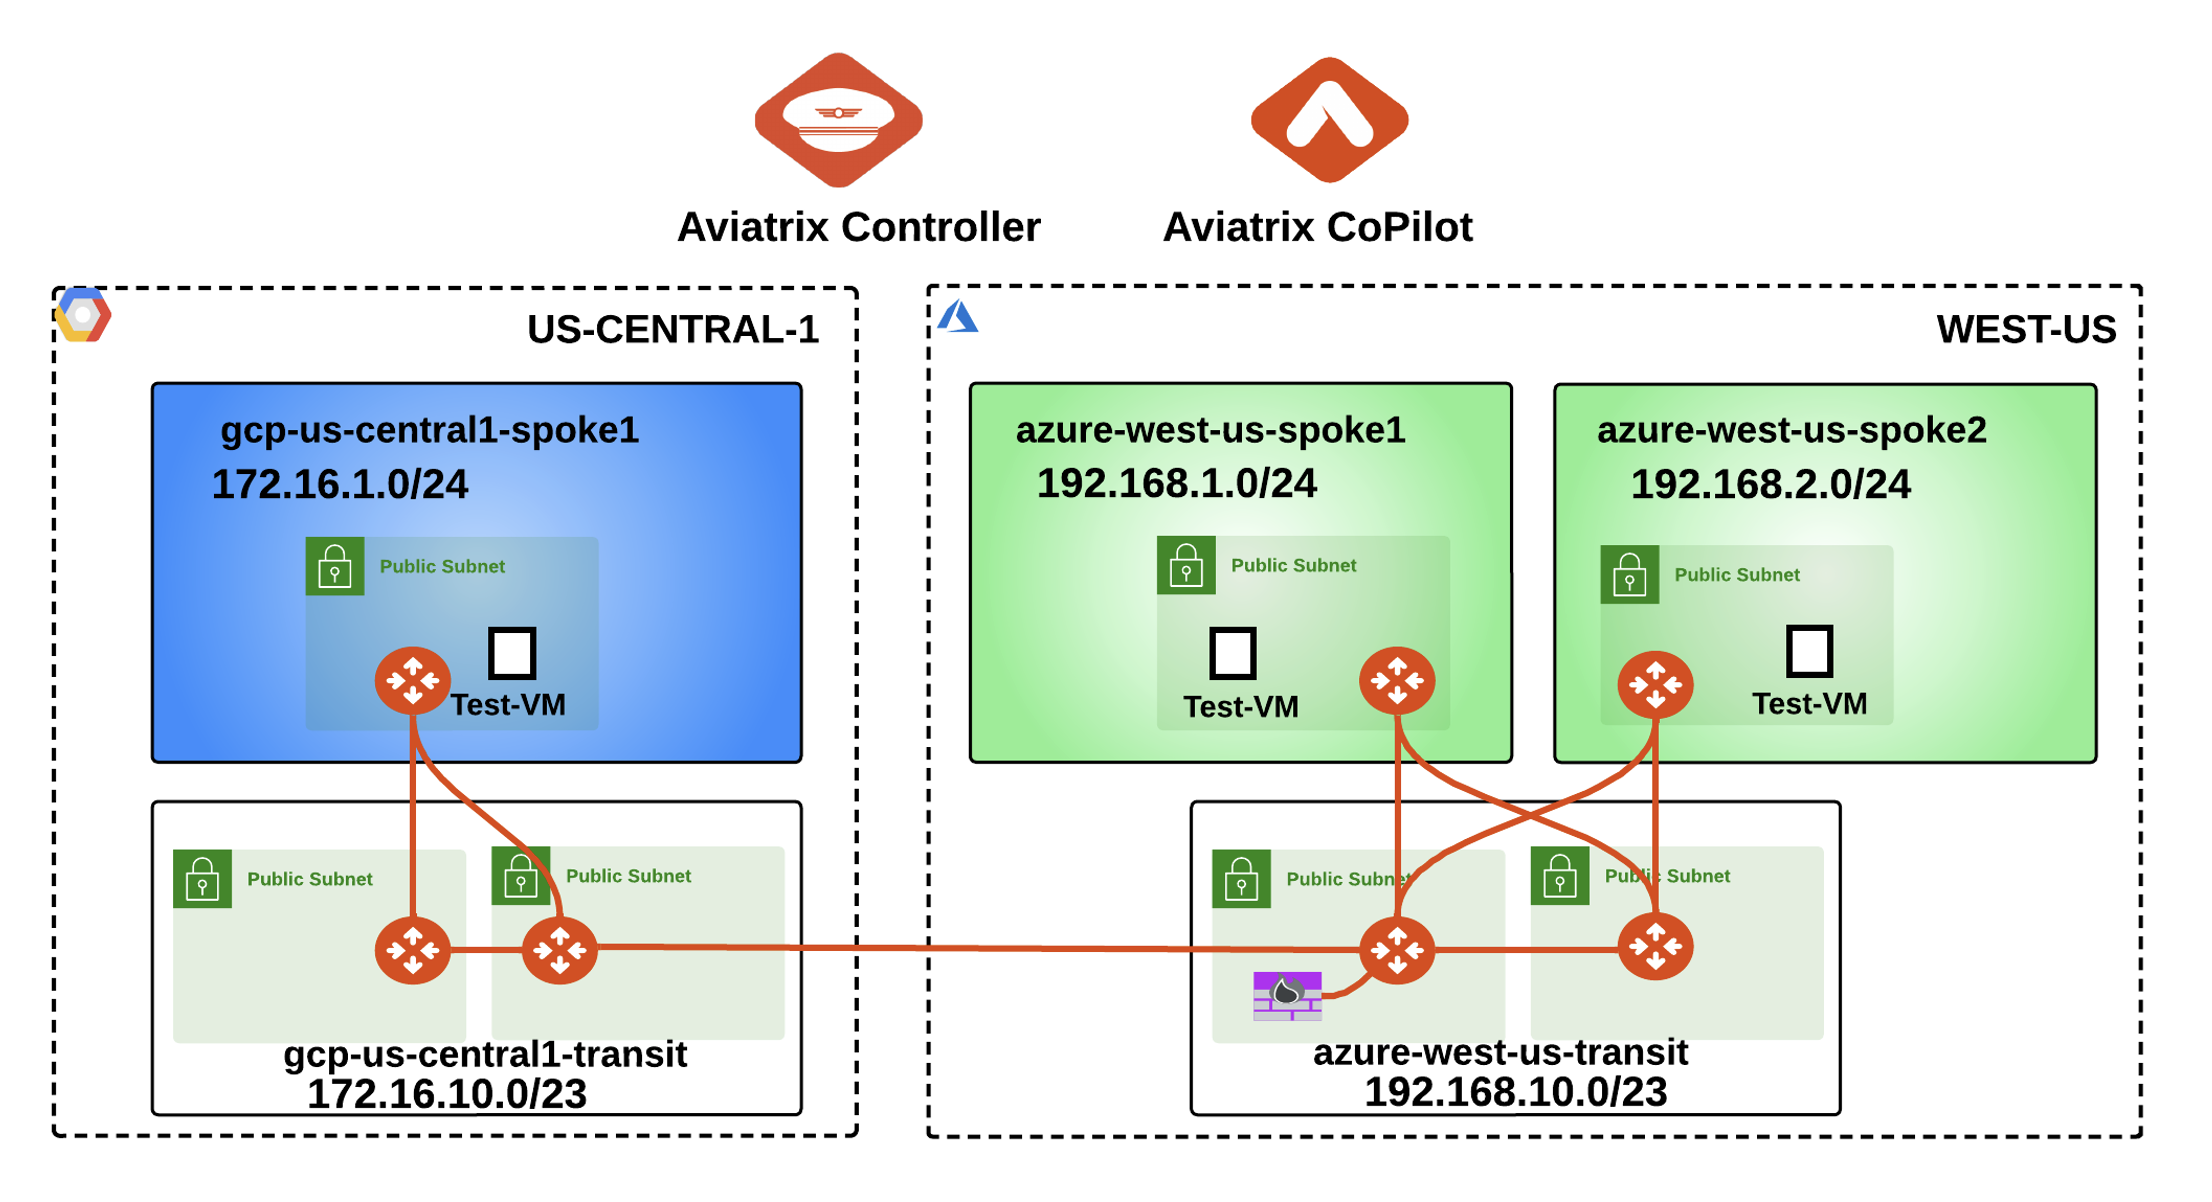
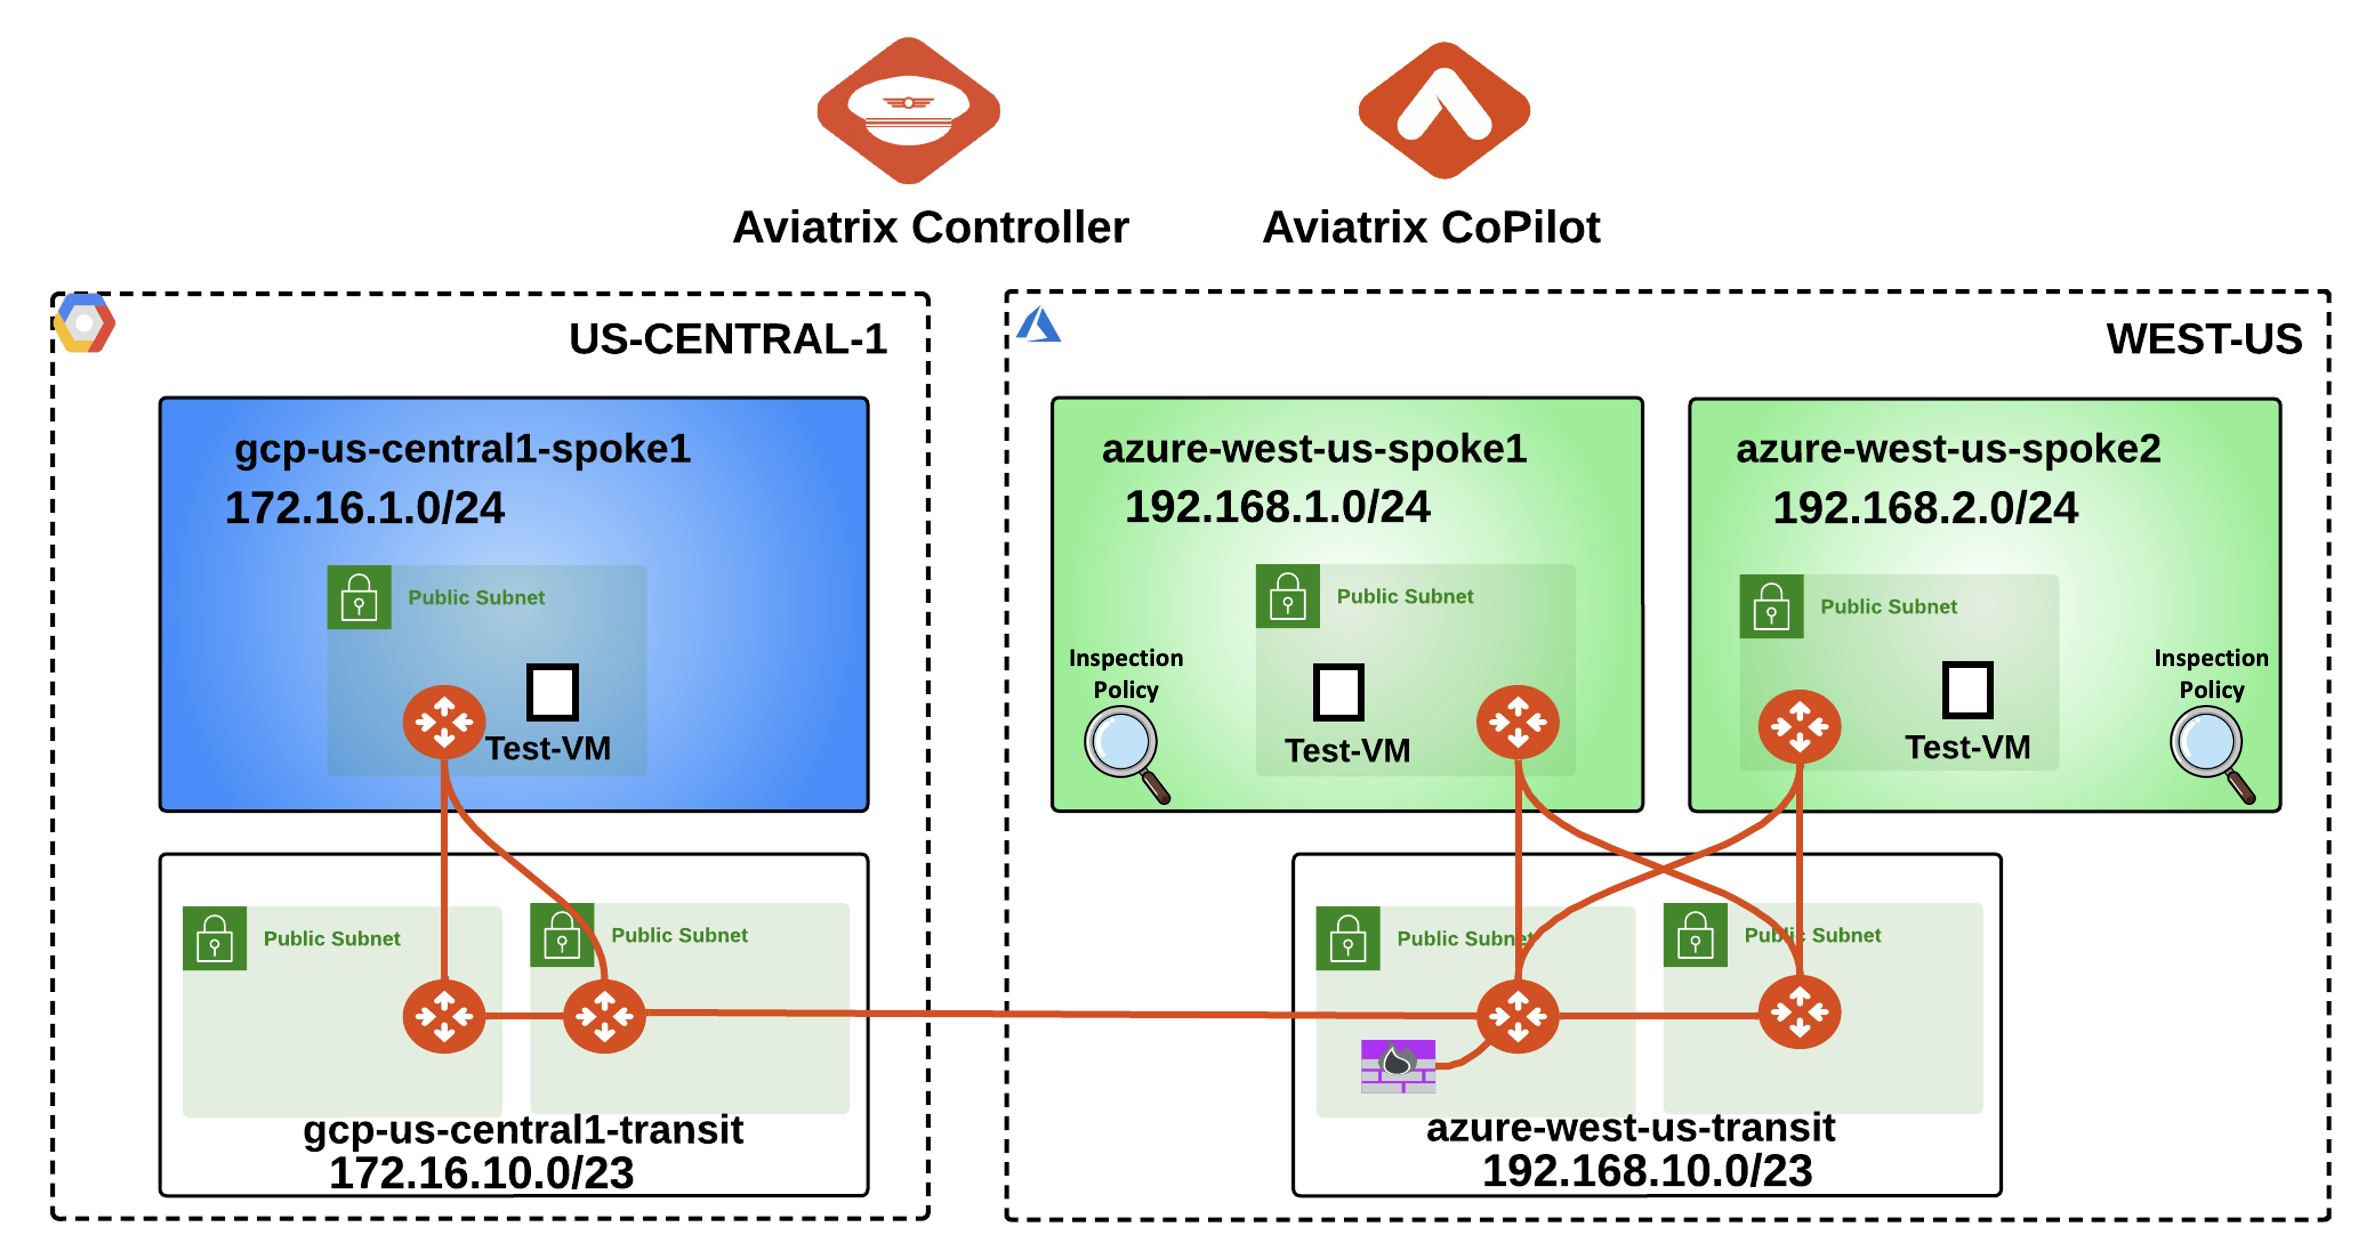
ace pro update

diff --git a/ace_pro/docs/lab7.md b/ace_pro/docs/lab7.md
@@ -286,7 +286,7 @@ Verify the traffic flows within Azure and from Azure to GCP as shown below, by f
 height: 400px
 align: center
 ---
-Lab 7 Topology with FW deplopyed
+Lab 7 Topology with FW deployed and the Inspection Policy applied!
 ```
 
 ## 5.1. Within Azure
